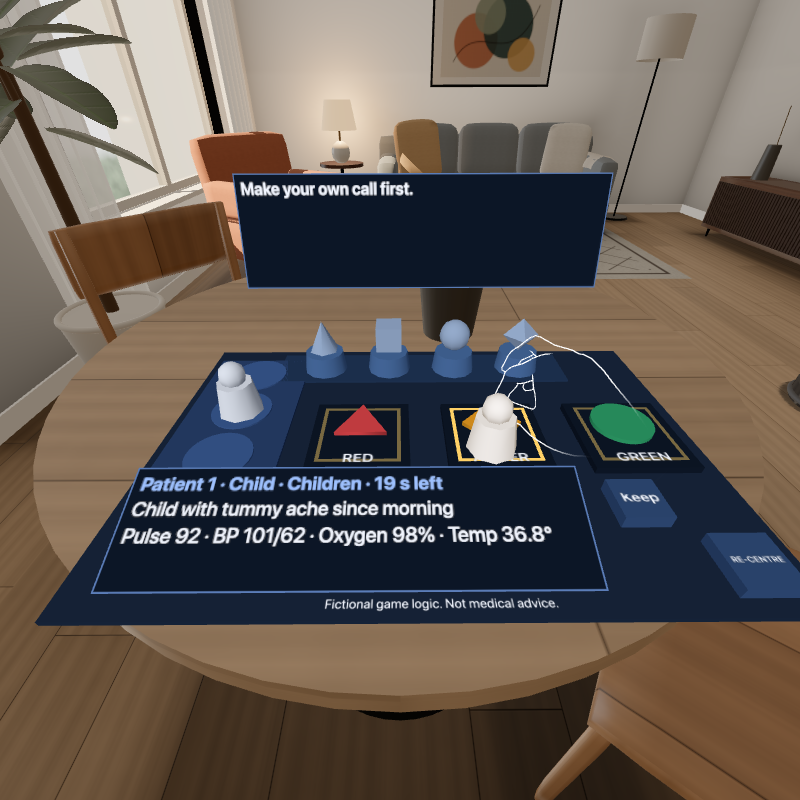
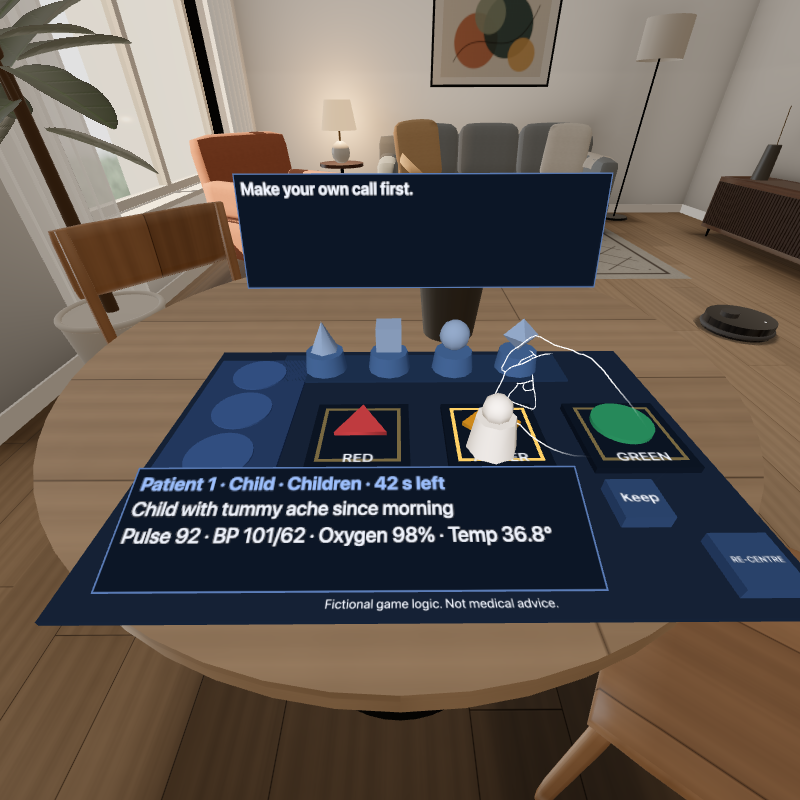
T06: Module 1 end to end. Commit, 0.6 s hold, advice, Keep or change tray, truth reveal, missed-window auto-Amber, debrief from summary()
Scripted hands-only run of 6 patients, 24-carry stress with alternating hands, 0 console errors (emulator only).

diff --git a/src/game/systems/TokenSystem.ts b/src/game/systems/TokenSystem.ts
@@ -62,6 +62,8 @@ export class TokenSystem extends createSystem({
   private hand = new Vector3();
   private pulse = 0;
   private doomed: Entity[] = [];
+  /** Count of releases handled, shown in the log so identical lines stay distinct. */
+  private releases = 0;
 
   init(): void {
     this.trays = this.world.getSystem(TraySystem) as TraySystem;
@@ -243,6 +245,7 @@ export class TokenSystem extends createSystem({
       return; // resolved while in the hand: retire() already sent it to its tray
     }
     const index = entity.getValue(Token, 'index') ?? 0;
+    this.releases += 1;
     const current = (entity.getValue(Token, 'zone') ?? '') as Zone | '';
     view.parts.root.getWorldPosition(this.world3);
     const zone = this.trays.zoneAt(this.world3);
@@ -250,7 +253,7 @@ export class TokenSystem extends createSystem({
       // Outside every tray, or back on the tray it came from: nothing changed.
       this.rest(entity, view, current, zone ? SNAP_SEC : RETURN_SEC);
       console.info(
-        `[token] ${index} ${zone ? `put back on ${zone}, no change` : current ? `released outside trays, back to ${current}` : 'released outside trays, back to lane'}`,
+        `[token] ${index} ${zone ? `put back on ${zone}, no change` : current ? `released outside trays, back to ${current}` : 'released outside trays, back to lane'} (release ${this.releases})`,
       );
       return;
     }
@@ -261,7 +264,7 @@ export class TokenSystem extends createSystem({
     this.trays.restPosition(zone, view.to);
     this.startMove(view, SNAP_SEC, zone);
     const intent: TokenIntent = { type: 'place', tokenId: index, zone };
-    console.info(`[intent] ${JSON.stringify(intent)}`);
+    console.info(`[intent] ${JSON.stringify(intent)} (release ${this.releases})`);
     for (const listener of this.listeners) {
       listener(intent);
     }

diff --git a/src/game/systems/ShiftSystem.ts b/src/game/systems/ShiftSystem.ts
@@ -4,7 +4,7 @@
 // reliance label. Advice is drawn only after commit() succeeded and the 0.6 s
 // hold passed, and never while an uncommitted token is in a hand.
 import { createSystem, Pressed, VisibilityState } from '@iwsdk/core';
-import { advisorData, loadCases } from '../../core/data.js';
+import { advisorData, loadCases, shiftConfig } from '../../core/data.js';
 import {
   buildShift,
   createShiftRuntime,
@@ -197,7 +197,8 @@ export class ShiftSystem extends createSystem({
         this.resultLines = [
           {
             text: event.missed
-              ? `Too slow: auto-Amber, ${signed(event.delta)}.`
+              ? // Penalty text straight from data/shift-config.json; the patient's total is the runtime's delta.
+                `Too slow: auto-Amber, ${signed(shiftConfig.scoring.missedWindowPenalty)}. Patient ${i + 1}: ${signed(event.delta)}`
               : `Patient ${i + 1}: ${signed(event.delta)}`,
             bold: true,
             em: 0.02,
